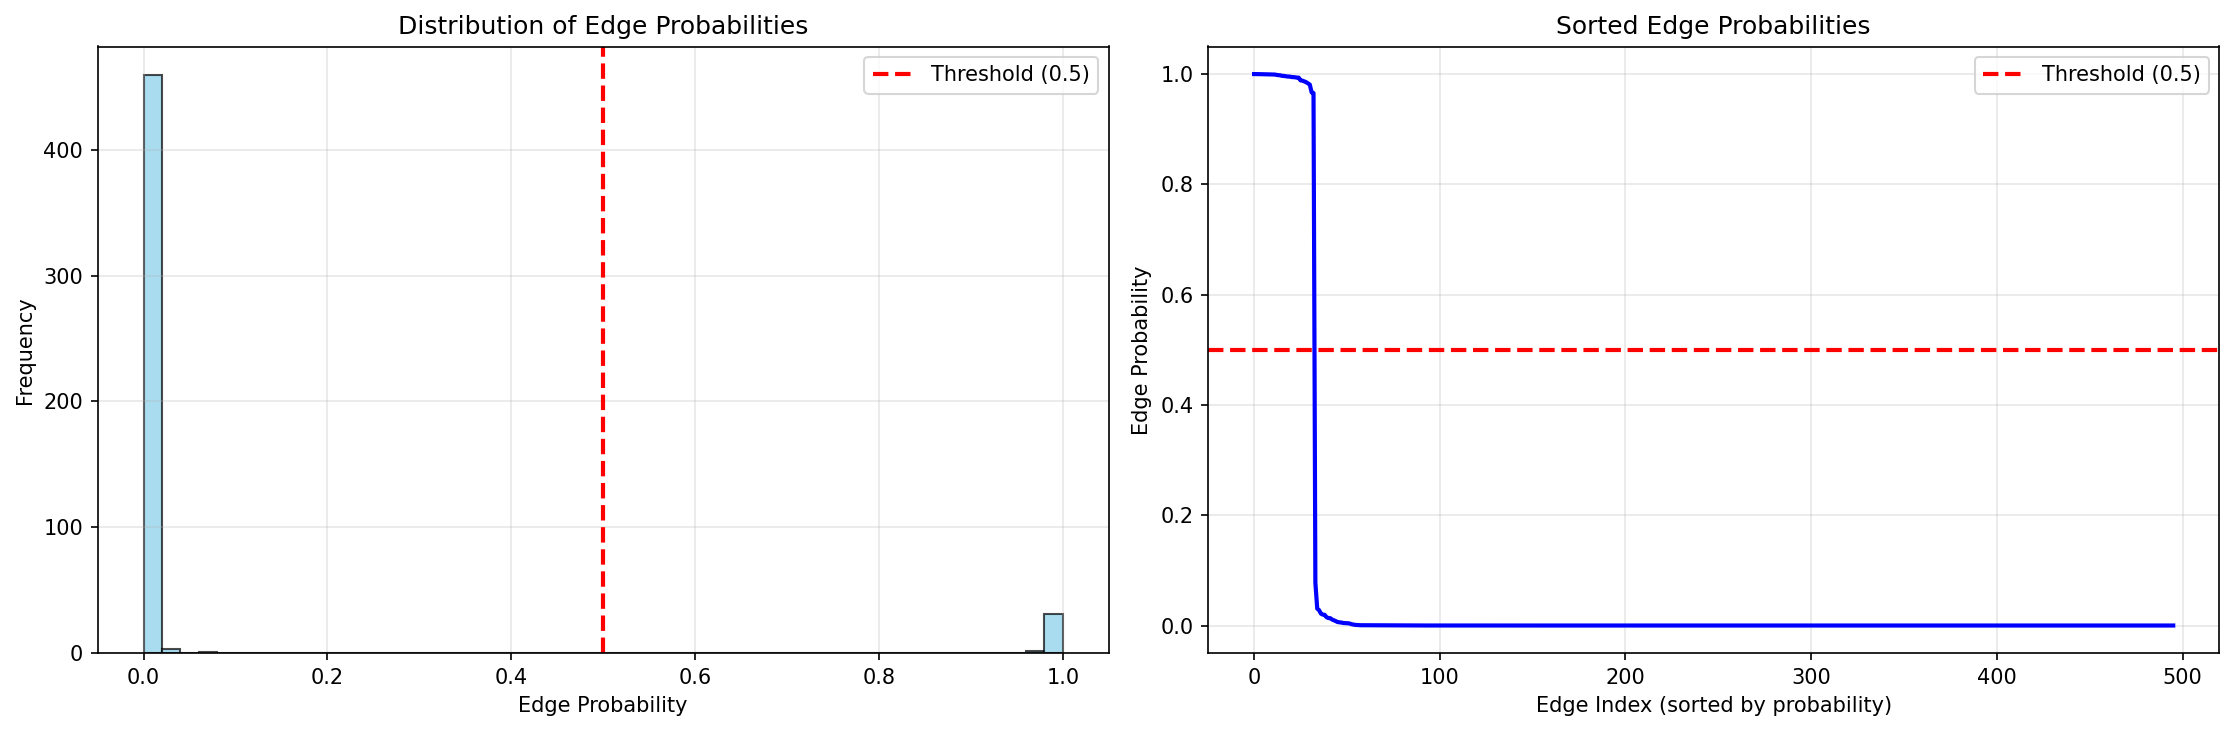
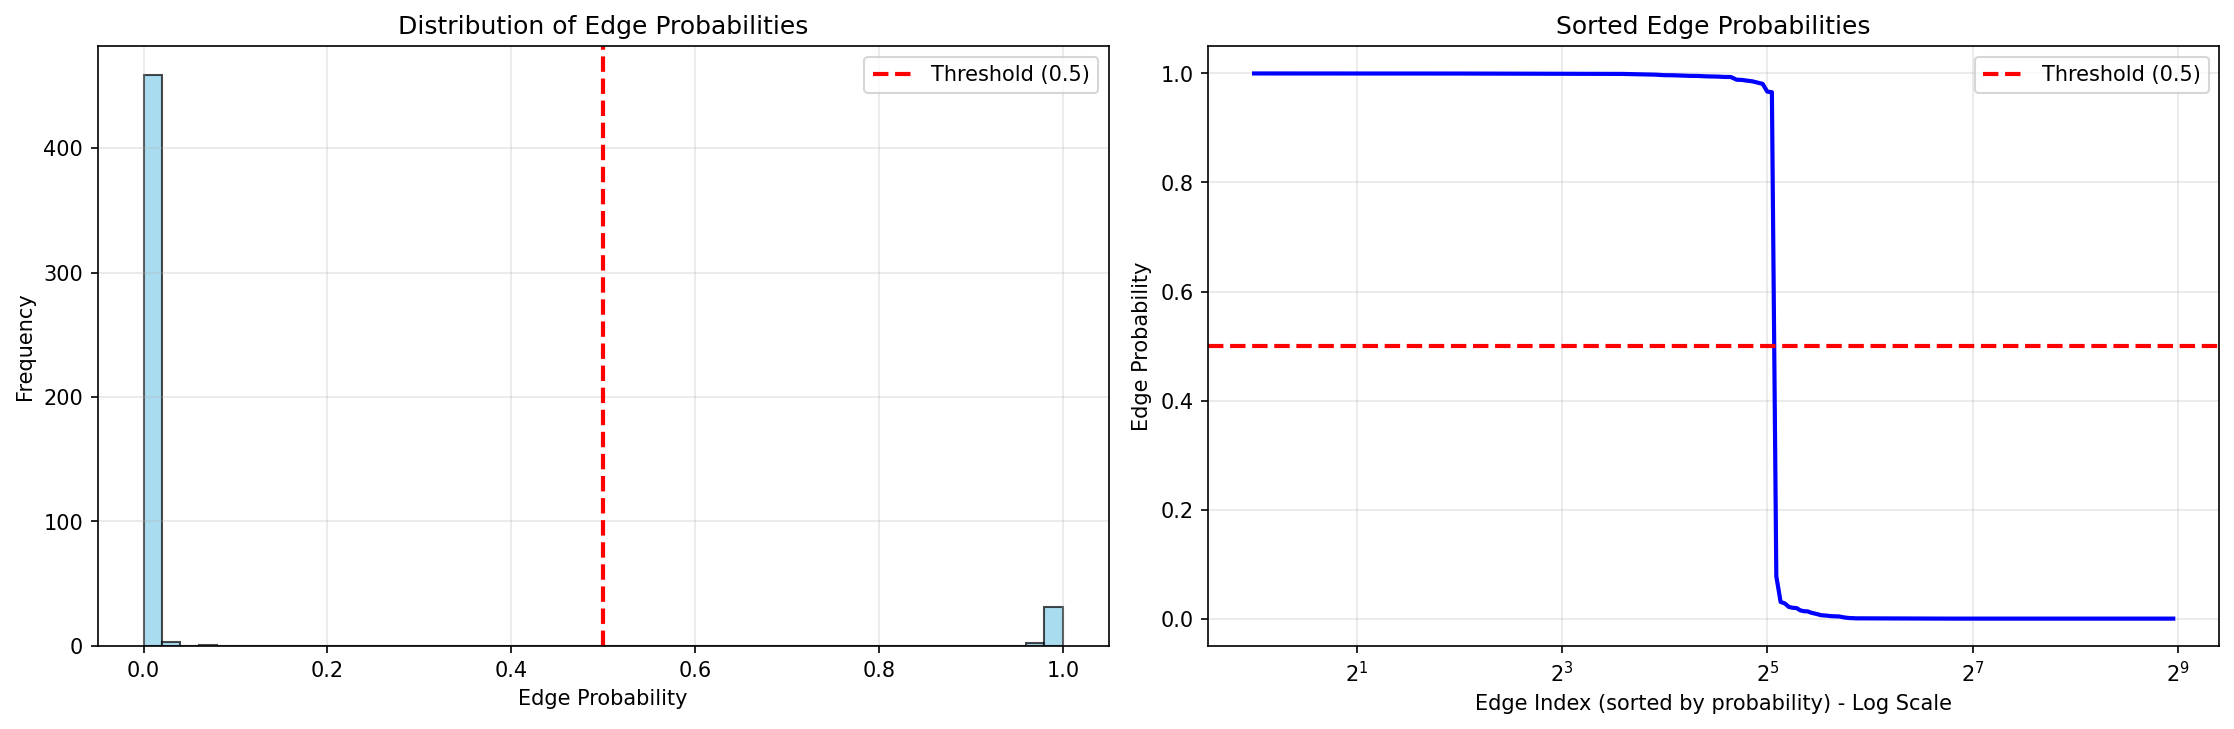
changed sorted edge probabilities edge index to log scale 2

diff --git a/main/visualize_wireframe.py b/main/visualize_wireframe.py
@@ -192,11 +192,14 @@ def visualize_edge_probabilities(edge_probs, edge_indices, threshold=0.5):
     
     # Edge probabilities sorted
     sorted_probs = np.sort(edge_probs)[::-1]
-    ax2.plot(range(len(sorted_probs)), sorted_probs, 'b-', linewidth=2)
+    # Use 1-based indexing for logarithmic scale (log(0) is undefined)
+    x_indices = np.arange(1, len(sorted_probs) + 1)
+    ax2.plot(x_indices, sorted_probs, 'b-', linewidth=2)
     ax2.axhline(threshold, color='red', linestyle='--', linewidth=2, label=f'Threshold ({threshold})')
-    ax2.set_xlabel('Edge Index (sorted by probability)')
+    ax2.set_xlabel('Edge Index (sorted by probability) - Log Scale')
     ax2.set_ylabel('Edge Probability')
     ax2.set_title('Sorted Edge Probabilities')
+    ax2.set_xscale('log', base=2)  # Make x-axis logarithmic with base 100
     ax2.legend()
     ax2.grid(True, alpha=0.3)
     
